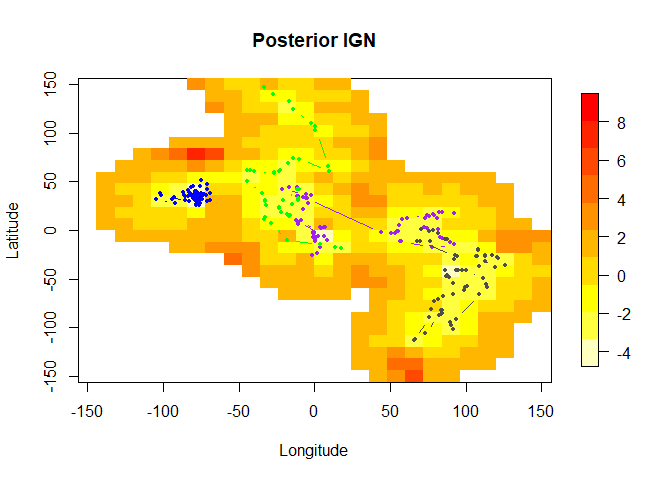
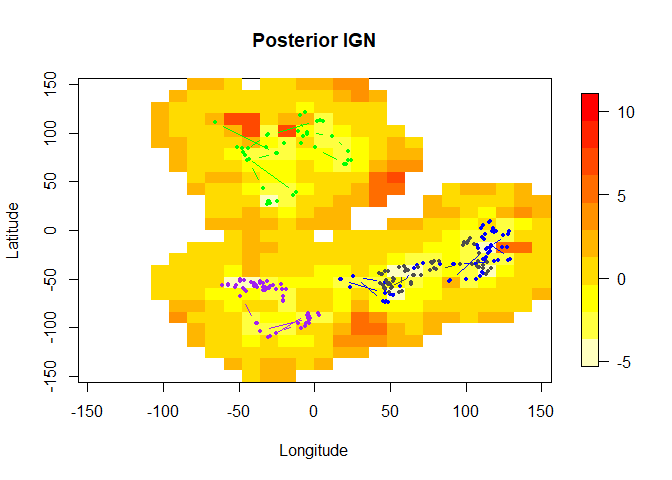
minor edits, fixed random seed

diff --git a/README.md b/README.md
@@ -13,7 +13,7 @@ The example below follows that in Section 4 of the paper and uses the Preferenti
 Warning
 -------
 
-Note that running this code (in particular the compilation of the C++ file) requires a large amount of RAM (we recommend 16GB).
+Note that running this code may require a large amount of RAM (we recommend 16GB).
 
 Simulation Example
 ------------------
@@ -231,10 +231,10 @@ standardMLE <- likfit(geodata, coords = geodata$coords, data = geodata$data, kap
 
     ## likfit: estimated model parameters:
     ##      beta     tausq   sigmasq       phi 
-    ## " 4.8765" " 0.0866" " 2.5514" "12.6037" 
-    ## Practical Range with cor=0.05 for asymptotic range: 67.66141
+    ## " 4.4319" " 0.0739" " 2.7101" "15.8464" 
+    ## Practical Range with cor=0.05 for asymptotic range: 85.06966
     ## 
-    ## likfit: maximised log-likelihood = -155.4
+    ## likfit: maximised log-likelihood = -122.8
 
 Next we will fit the model in `TMB`. First we define the parameters for the model (including latent states). Our latent states are the field *S* and behavioural states *b**e**t**a*'s. We start the other parameters
 
@@ -275,14 +275,14 @@ if( class(sdre) != 'try-error') {
 }
 ```
 
-    ##               Estimate  Std. Error
-    ## mu            5.064511  0.50094354
-    ## log_papertau  3.037084  0.15505027
-    ## log_kappa    -2.558404  0.12705914
-    ## log_tau      -1.221102  0.06041476
-    ## alpha        85.027308 13.62016512
-    ## log_d         2.426771  0.03636466
-    ## log_sdbehav  -2.383363  0.39969434
+    ##                Estimate  Std. Error
+    ## mu             4.939458  0.70357739
+    ## log_papertau   3.539569  0.16696319
+    ## log_kappa     -2.869189  0.14946801
+    ## log_tau       -1.285581  0.05806115
+    ## alpha        174.620945 23.13155555
+    ## log_d          2.574603  0.03588378
+    ## log_sdbehav   -1.870642  0.31034349
 
 ``` r
 # prediction variance from TMB
@@ -339,12 +339,12 @@ IgnScoreNonPref <- IGN(nonPredPref$predict, rawDatSmall, nonPredPref$krige.var)
 mean(IgnScorePost)
 ```
 
-    ## [1] 1.054781
+    ## [1] 1.170347
 
 ``` r
 mean(IgnScoreNonPref)
 ```
 
-    ## [1] 1.084511
+    ## [1] 1.299883
 
 Finally we can plot the IGN scores and compare predictive surfaces from the non-preferential and preferential models. We consider only prediction locations in regions near the sampling locations: ![](README_files/figure-markdown_github/showign-1.png)![](README_files/figure-markdown_github/showign-2.png)![](README_files/figure-markdown_github/showign-3.png) Note that the mean IGN for the following two plots are 0.41 (TMB) and 0.64 (kriging) respectively. ![](README_files/figure-markdown_github/plotign2-1.png)![](README_files/figure-markdown_github/plotign2-2.png)
